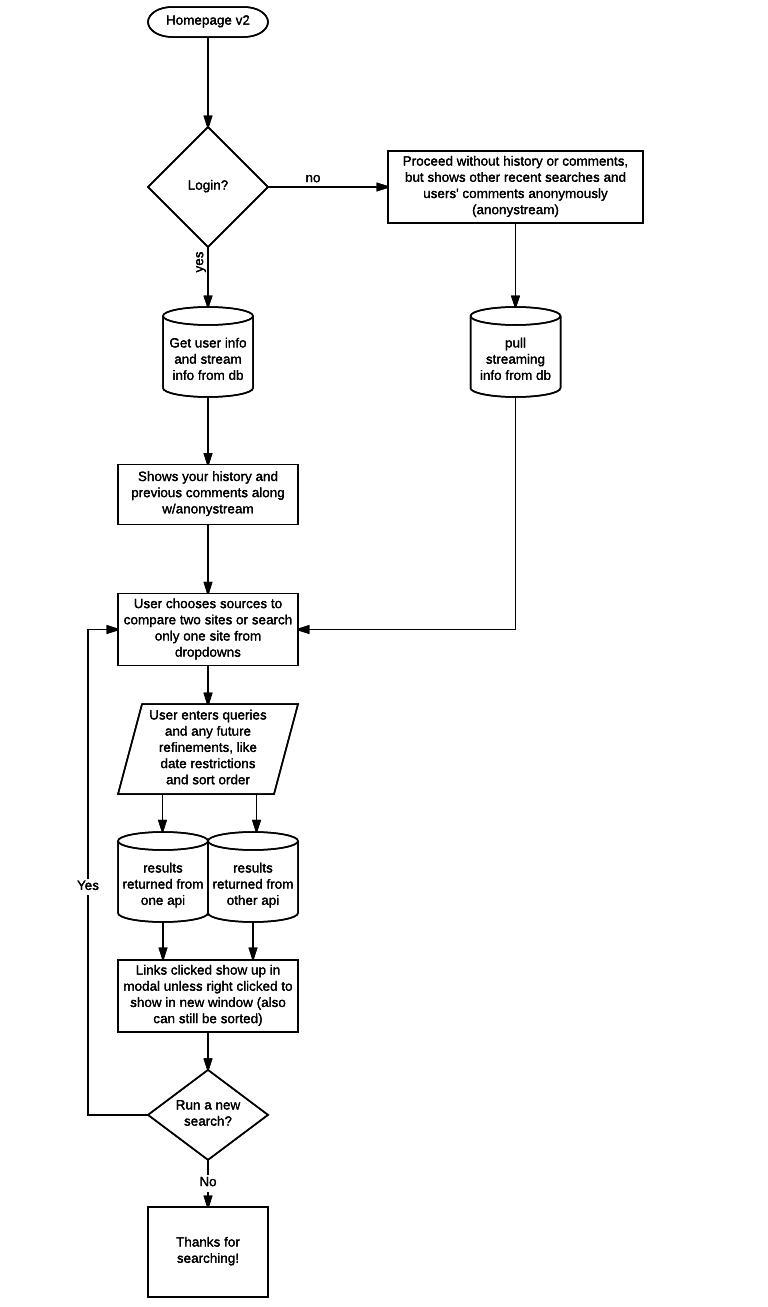
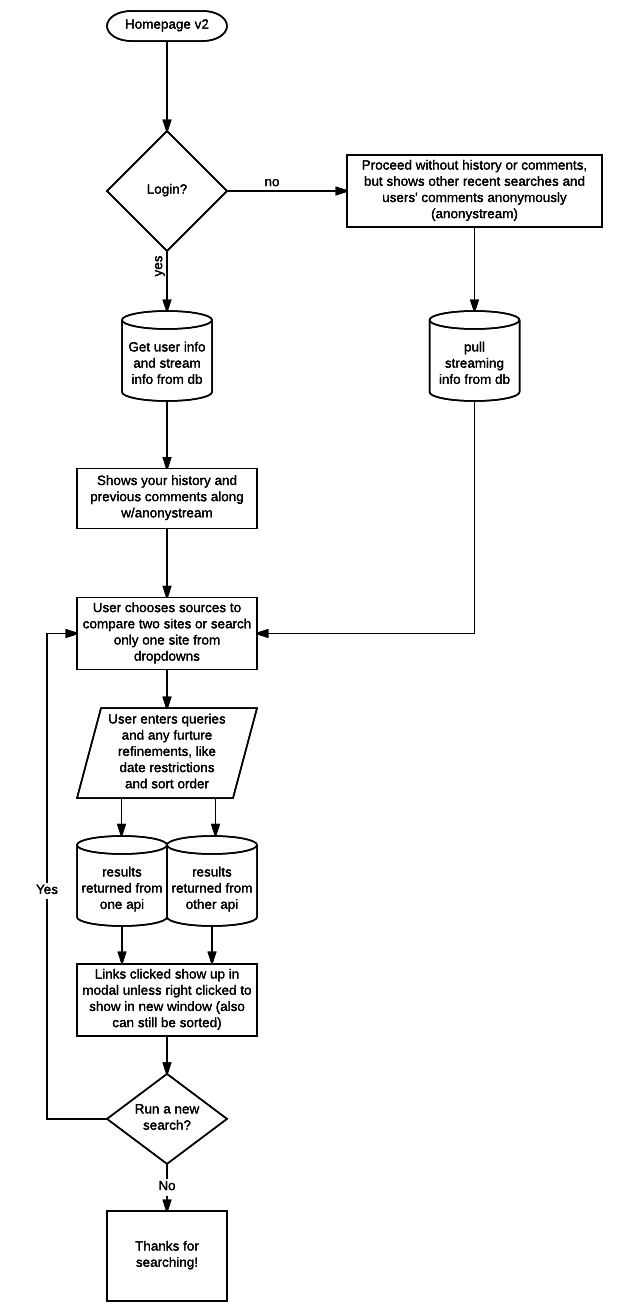
update readme

Changed region(s): [[0.0624, 0.0, 0.9048, 1.0], [0.5928, 0.2142, 0.8112, 0.306], [0.6552, 0.4591, 0.6864, 0.4897]]

diff --git a/readme.md b/readme.md
@@ -1,21 +1,21 @@
 
 
-Description of processes such as routing to be rewritten upon update after class. See duplicate readme for old description.
-
+*Description of processes such as routing to be rewritten upon update after class. See duplicate readme for old description.*
 
 **User Stories**
+
 As a user, I would like to be able to search a news subject and compare how different news sources produce headlines. Since Brexit is all over the international media right now, it would be great to see how two papers of record report on such subjects and, especially, to be able to compare the headlines that are generated in the US vs the UK. I would like to enter one search term and see a justoposition of the results. That's all I want--for now.
 
 
-Current Flow Chart
+	Current Flow Chart
 
 ![Current Flow Chart](flow_version1.png "Current Flow Chart")
 
-Flow Chart v2 (for future--to be updated for portfolio and personal use)
+	Flow Chart v2 (for future--to be updated for portfolio and personal use)
 
-![Flow Chart v2](flow_version1.png "Flow Chart v2")
+![Flow Chart v2](flow_version2.png "Flow Chart v2")
 
-Old wireframe
+	Old wireframe
 
 ![Quick Wireframe](wireframe.png "Quick Wireframe")
 
